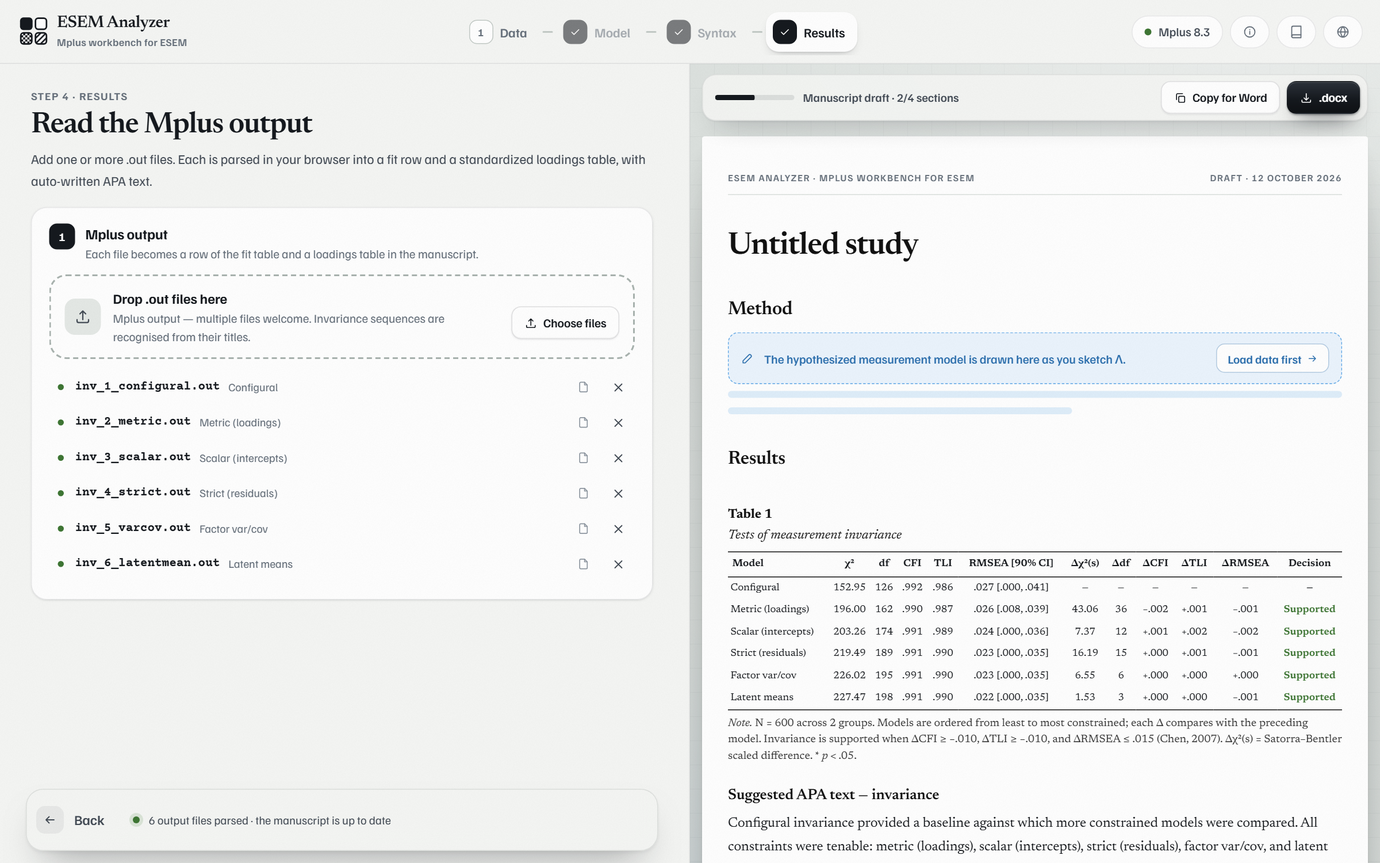
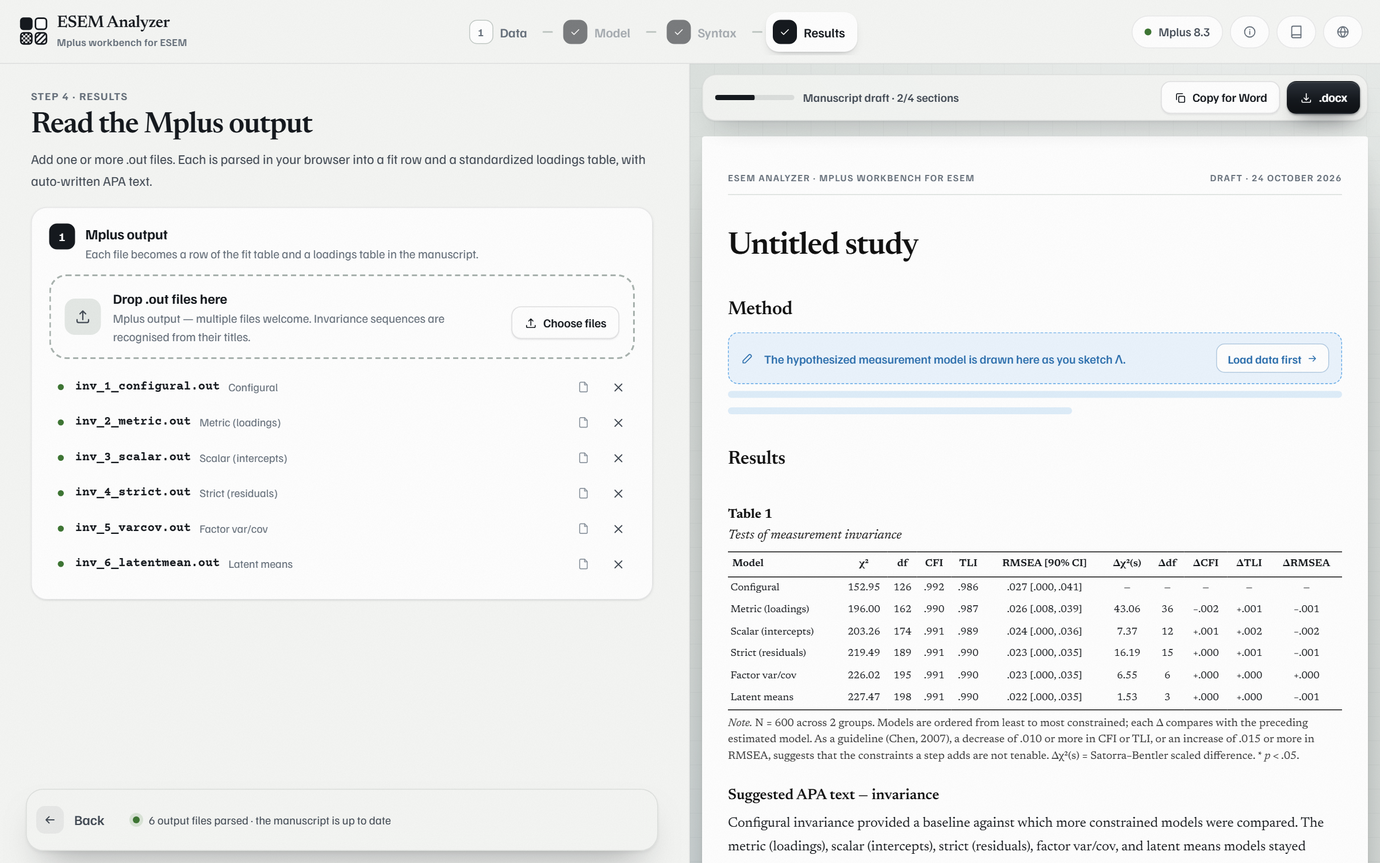
Invariance tables without a verdict column: Chen's cutoffs stay in the note as a guideline, the comparison model is named when a step was skipped, and the draft text reports the steps after an exceeded one for completeness only; fit-table note follows Morin's comparisons; scaled-difference check

Changed region(s): [[0.5312, 0.644, 0.9688, 0.8893], [0.5312, 0.9507, 0.9375, 1.0], [0.9375, 0.9507, 0.9688, 0.9813]]

diff --git a/js/apa-render.js b/js/apa-render.js
@@ -106,7 +106,7 @@ export function fitDelta(ref, cur, { nested = true, useWrmr = false } = {}) {
   };
 }
 
-export const REFERENCE_NOTE = 'Each Δ compares the model with the reference model in the vs. column — ESEM and bifactor-CFA with the CFA, bifactor-ESEM with the ESEM (Morin, 2023); Δχ²(s) is given only for nested pairs (CFA within ESEM, bifactor-CFA within bifactor-ESEM).';
+export const REFERENCE_NOTE = 'Each Δ compares the model with the reference model in the vs. column — the ESEM with the CFA, then each bifactor model with its first-order counterpart, the comparisons of Morin (2023), who makes the second one for the retained first-order model; Δχ²(s) is given only for nested pairs (CFA within ESEM, bifactor-CFA within bifactor-ESEM).';
 
 export function renderFitTable(models, { deltaMode = 'auto', caption = 'Goodness-of-fit statistics', wlsmv = null } = {}) {
   // Auto-detect WLSMV: no model reports SRMR but at least one reports WRMR.
@@ -150,19 +150,20 @@ export function deltaText(dec) {
 }
 
 // ======================= Measurement-invariance table =======================
-/** Morin's rule (Chen, 2007; Cheung & Rensvold, 2002): the step is supported when the CFI and the
- *  TLI each drop by no more than .010 and the RMSEA rises by no more than .015 — i.e.
- *  ΔCFI ≥ −.010, ΔTLI ≥ −.010, ΔRMSEA ≤ .015. The deltas are compared at the 3-decimal precision
- *  Mplus reports, so a displayed −.010 passes (raw floating-point noise such as
- *  .990 − 1.000 = −0.010000000000000009 must not fail it). ΔTLI is skipped only when a TLI is missing. */
+/** Chen's (2007) guideline, as Morin (2023) applies it: a decrease of .010 or more in CFI or TLI, or an
+ *  increase of .015 or more in RMSEA, suggests that the constraints a step adds are not tenable. The deltas
+ *  are compared at the 3-decimal precision Mplus reports (a displayed −.010 reaches the guideline; raw
+ *  floating-point noise such as .990 − 1.000 = −0.010000000000000009 must not move the result). ok = the
+ *  step stays within the guideline; it is a reading aid for the Δ columns, not a verdict — the tables carry
+ *  no decision column. ΔTLI is skipped only when a TLI is missing. */
 export function invarianceDecision(prev, cur) {
   if (!prev) return { ok: null, text: '—', dcfi: null, dtli: null, drmsea: null };
   const diff = (a, b) => (a != null && b != null ? a - b : null);
   const r3 = (x) => Math.round(x * 1000) / 1000;
   const dcfi = diff(cur.cfi, prev.cfi), dtli = diff(cur.tli, prev.tli), drmsea = diff(cur.rmsea, prev.rmsea);
   const ok = dcfi != null && drmsea != null
-    && r3(dcfi) >= -0.010 && (dtli == null || r3(dtli) >= -0.010) && r3(drmsea) <= 0.015;
-  return { ok, text: dcfi == null ? '—' : (ok ? 'Supported' : 'Not supported'), dcfi, dtli, drmsea };
+    && r3(dcfi) > -0.010 && (dtli == null || r3(dtli) > -0.010) && r3(drmsea) < 0.015;
+  return { ok, text: dcfi == null ? '—' : (ok ? 'Within guideline' : 'Beyond guideline'), dcfi, dtli, drmsea };
 }
 
 // ---- step order and estimation status (shared by the on-screen table, the prose and the Word/.docx export) ----
@@ -205,22 +206,40 @@ export function chiSquareFree(p) { return noFitReason(p) == null && p?.fit?.chi2
 export function noChiSquareSentence(label, f) {
   return `The ${label} model converged (log-likelihood = ${f2(f.logLik)}, AIC = ${f2(f.aic)}, BIC = ${f2(f.bic)}), but Mplus reports no χ²-based fit indices for it (as with MLR and categorical indicators), so CFI, TLI and RMSEA are not available.`;
 }
-/** Rows of an invariance table: sequence order, each model's nearest ESTIMATED predecessor and the decision
- *  against it. A model whose .out has no fit statistics keeps its place but is marked unestimated and skipped
- *  by the comparisons, so a failed step can neither scramble the rows nor hide the configural baseline. */
+/** Rows of an invariance table: sequence order, each model's nearest ESTIMATED predecessor and the Δ against
+ *  it. A model whose .out has no fit statistics keeps its place but is marked unestimated and skipped by the
+ *  comparisons, so a failed step can neither scramble the rows nor hide the configural baseline.
+ *  skipped = the unestimated models between a row and its comparison model (the row then carries a letter
+ *  mark, explained in the note); after = the first earlier step whose Δ went beyond the guideline (null if
+ *  none) — the rows after it are reported for completeness and do not establish their level of invariance. */
 export function invarianceSeries(models) {
   const rows = [];
-  let prev = null;
+  let prev = null, skipped = [], exceeded = null, marks = 0;
   for (const m of sortInvarianceModels(models)) {
     const f = m.parsed.fit || {};
     const reason = noFitReason(m.parsed);
     const estimated = reason == null;
     const dec = estimated ? invarianceDecision(prev ? prev.parsed.fit : null, f)
       : { ok: null, text: 'Not estimated', dcfi: null, dtli: null, drmsea: null };
-    rows.push({ m, f, estimated, reason, prev, dec });
-    if (estimated) prev = m;
+    const row = { m, f, estimated, reason, prev, dec, skipped: estimated && prev ? skipped : [], after: exceeded, mark: '' };
+    if (row.skipped.length) row.mark = String.fromCharCode(97 + marks++);
+    rows.push(row);
+    if (estimated) { prev = m; skipped = []; if (dec.ok === false && !exceeded) exceeded = m; } else skipped = [...skipped, m];
   }
   return rows;
+}
+/** Note sentences shared by the on-screen table and the Word/.docx export: how to read the Δ columns (Chen's
+ *  guideline, the rows after a step that went beyond it) and the letter marks of rows whose comparison model is
+ *  not the preceding step. html → labels escaped for innerHTML. */
+export function invarianceGuidelineNote(series, { html = false } = {}) {
+  const lbl = (m) => (html ? esc(m.label) : m.label);
+  const beyond = series.some((r) => r.estimated && r.dec.ok === false);
+  let s = 'Models are ordered from least to most constrained; each Δ compares with the preceding estimated model. As a guideline (Chen, 2007), a decrease of .010 or more in CFI or TLI, or an increase of .015 or more in RMSEA, suggests that the constraints a step adds are not tenable'
+    + (beyond ? '; the rows after such a step are reported for completeness and do not establish those levels of invariance (Morin, 2023).' : '.');
+  for (const r of series.filter((x) => x.mark)) {
+    s += ` ${html ? `<sup>${r.mark}</sup>` : r.mark} Compared with the ${lbl(r.prev)} model because the ${joinList(r.skipped.map(lbl))} model${r.skipped.length > 1 ? 's' : ''} could not be estimated, so the Δ covers the constraints of both steps.`;
+  }
+  return s;
 }
 /** Fit-table note suffix naming the models without fit statistics and the loglikelihood-only ones ('' when
  *  every model has χ²-based indices). html → labels escaped for innerHTML; plain text for the .docx path. */
@@ -245,14 +264,14 @@ export function renderInvarianceTable(models, { caption, longitudinal = false } 
   // WLSMV (categorical) sequences: the χ² values cannot be differenced or SB-scaled — the only
   // valid Δχ² is Mplus's DIFFTEST, which each step's own .out reports against the previous step.
   const wlsmv = models.some((m) => /MV$/i.test(m.parsed.estimator || '') || m.parsed.diffTest);
-  const head = ['Model', 'χ²', 'df', 'CFI', 'TLI', 'RMSEA [90% CI]', wlsmv ? 'Δχ²' : 'Δχ²(s)', 'Δdf', 'ΔCFI', 'ΔTLI', 'ΔRMSEA', 'Decision'];
+  const head = ['Model', 'χ²', 'df', 'CFI', 'TLI', 'RMSEA [90% CI]', wlsmv ? 'Δχ²' : 'Δχ²(s)', 'Δdf', 'ΔCFI', 'ΔTLI', 'ΔRMSEA'];
   const series = invarianceSeries(models);
   let rows = '';
   let missingDiff = false;
   for (const r of series) {
     const { m, f, dec } = r;
     if (!r.estimated) {
-      const cells = [m.label, ...Array(10).fill('—'), '<span style="color:var(--danger);font-weight:600">Not estimated</span>'];
+      const cells = [esc(m.label), '<span style="color:var(--danger);font-weight:600">Not estimated</span>', ...Array(9).fill('—')];
       rows += `<tr>${cells.map((c) => `<td>${c}</td>`).join('')}</tr>`;
       continue;
     }
@@ -263,17 +282,15 @@ export function renderInvarianceTable(models, { caption, longitudinal = false } 
       if (d) { dchi = f2(d.chi2) + (d.p != null && d.p < 0.05 ? '*' : ''); ddf = d.df; }
       else missingDiff = true;
     } else if (prev) { const mc = (prev.df ?? 0) >= (f.df ?? 0) ? prev : f; const mu = mc === prev ? f : prev; const sb = sbChiSqDiff(mc, mu); if (sb) { dchi = f2(sb.TRd) + (sb.p < 0.05 ? '*' : ''); ddf = sb.df; } }
-    const colour = dec.ok === true ? 'color:var(--good)' : dec.ok === false ? 'color:var(--danger)' : '';
-    const cells = [m.label, f2(f.chi2), f.df ?? '—', f3(f.cfi), f3(f.tli), `${f3(f.rmsea)} ${ci(f.rmseaLo, f.rmseaHi)}`,
-      dchi, ddf, dec.dcfi != null ? signed(dec.dcfi, 3) : '—', dec.dtli != null ? signed(dec.dtli, 3) : '—', dec.drmsea != null ? signed(dec.drmsea, 3) : '—',
-      `<span style="${colour};font-weight:600">${dec.text}</span>`];
+    const cells = [esc(m.label) + (r.mark ? `<sup>${r.mark}</sup>` : ''), f2(f.chi2), f.df ?? '—', f3(f.cfi), f3(f.tli), `${f3(f.rmsea)} ${ci(f.rmseaLo, f.rmseaHi)}`,
+      dchi, ddf, dec.dcfi != null ? signed(dec.dcfi, 3) : '—', dec.dtli != null ? signed(dec.dtli, 3) : '—', dec.drmsea != null ? signed(dec.drmsea, 3) : '—'];
     rows += `<tr>${cells.map((c) => `<td>${c}</td>`).join('')}</tr>`;
   }
   const across = longitudinal ? 'across two time points' : `across ${models[0]?.parsed.nGroups ?? 2} groups`;
   const dchiNote = wlsmv
     ? `Δχ² = WLSMV difference test (Mplus DIFFTEST) against the preceding model; WLSMV χ² values cannot be differenced directly.${missingDiff ? ' Missing Δχ² values: run the generated models in order, in one folder, so each step finds the previous step’s DIFFTEST file.' : ''}`
     : 'Δχ²(s) = Satorra–Bentler scaled difference.';
-  const note = `<p class="apa-note"><i>Note.</i> N = ${models[0]?.parsed.nObs ?? '—'} ${across}. Models are ordered from least to most constrained; each Δ compares with the preceding model. Invariance is supported when ΔCFI ≥ −.010, ΔTLI ≥ −.010, and ΔRMSEA ≤ .015 (Chen, 2007). ${dchiNote}${unestimatedNote(series, { html: true })} * <i>p</i> &lt; .05.</p>`;
+  const note = `<p class="apa-note"><i>Note.</i> N = ${models[0]?.parsed.nObs ?? '—'} ${across}. ${invarianceGuidelineNote(series, { html: true })} ${dchiNote}${unestimatedNote(series, { html: true })} * <i>p</i> &lt; .05.</p>`;
   return `<table class="apa-table"><caption><b>Table.</b> ${caption}</caption><thead><tr>${head.map((h) => `<th>${h}</th>`).join('')}</tr></thead><tbody>${rows}</tbody></table>${note}`;
 }
 
@@ -283,25 +300,28 @@ export function invarianceProseText(models, { longitudinal = false } = {}) {
   const est = series.filter((r) => r.estimated);
   const skipped = series.filter((r) => !r.estimated);
   const over = longitudinal ? 'across the two time points' : 'across groups';
+  const lower = (r) => r.m.label.toLowerCase();
   const skippedSentence = skipped.length
-    ? ` The ${joinList(skipped.map((r) => r.m.label.toLowerCase()))} model${skipped.length > 1 ? 's' : ''} could not be estimated (${joinList([...new Set(skipped.map((r) => r.reason))])}) and ${skipped.length > 1 ? 'were' : 'was'} left out of the comparisons.`
+    ? ` The ${joinList(skipped.map(lower))} model${skipped.length > 1 ? 's' : ''} could not be estimated (${joinList([...new Set(skipped.map((r) => r.reason))])}) and ${skipped.length > 1 ? 'were' : 'was'} left out of the comparisons.`
     : '';
   if (est.length < 2) return skippedSentence.trim();
-  const supported = [], failedAt = [];
-  est.forEach((r, i) => { if (i === 0) { supported.push(r.m.label); return; } if (r.dec.ok) supported.push(r.m.label); else failedAt.push(r); });
+  // the comparison model, named when it is not the preceding step
+  const against = (r) => (r.skipped.length ? `, against the ${r.prev.label.toLowerCase()} model because the ${joinList(r.skipped.map((x) => x.label.toLowerCase()))} model${r.skipped.length > 1 ? 's' : ''} could not be estimated` : '');
+  const beyond = est.findIndex((r, i) => i > 0 && r.dec.ok === false);
+  const within = est.slice(1, beyond < 0 ? est.length : beyond);
   let s = `${est[0].m.label} invariance provided a baseline against which more constrained models were compared. `;
-  if (!failedAt.length) {
-    const held = joinList(supported.slice(1).map((x) => x.toLowerCase()));
-    s += `All constraints were tenable: ${held} invariance ${supported.length > 2 ? 'were each' : 'was'} supported (ΔCFI ≥ −.010, ΔTLI ≥ −.010, ΔRMSEA ≤ .015), indicating full measurement invariance ${over}.`;
-  } else {
-    const first = failedAt[0];
-    const held = supported.slice(1).map((x) => x.toLowerCase());
-    s += held.length ? `${joinList(held)} invariance ${held.length > 1 ? 'were' : 'was'} supported, but ` : '';
-    s += `${first.m.label.toLowerCase()} invariance was not supported (${deltaText(first.dec)}), indicating non-invariance at this level. Partial-invariance follow-ups (freeing the most divergent parameters via modification indices) are recommended before comparing ${longitudinal ? 'time points' : 'groups'} further.`;
+  if (within.length) {
+    const held = joinList(within.map(lower));
+    s += `The ${held} model${within.length > 1 ? 's' : ''} stayed within Chen’s (2007) guideline of a decrease of less than .010 in CFI and TLI and an increase of less than .015 in RMSEA (${within.map((r) => `${lower(r)}: ${deltaText(r.dec)}${against(r)}`).join('; ')}), which is consistent with ${beyond < 0 ? 'full measurement invariance' : `${held} invariance`} ${over}.`;
+  }
+  if (beyond >= 0) {
+    const r = est[beyond];
+    s += `${within.length ? ' ' : ''}The ${lower(r)} model went beyond that guideline (${deltaText(r.dec)}${against(r)}), so ${lower(r)} invariance should not be accepted as it stands; a partial-invariance model that frees the parameters with the largest modification indices should be examined before the sequence continues (Morin, 2023).`;
+    const rest = est.slice(beyond + 1);
+    if (rest.length) s += ` The ${joinList(rest.map(lower))} model${rest.length > 1 ? 's' : ''} of the full sequence ${rest.length > 1 ? 'are' : 'is'} reported in the table for completeness: each was compared with the model before it and does not establish that level of invariance.`;
   }
   return s + skippedSentence;
 }
-
 export function renderInvarianceProse(models, opts = {}) {
   const s = invarianceProseText(models, opts);
   return s ? `<p class="apa-prose">${s}</p>` : '';

diff --git a/js/docx-export.js b/js/docx-export.js
@@ -3,7 +3,7 @@
 //   exportDocx(models)         → a real .docx via the `docx` UMD global
 //   zipInputs(files)           → bundle generated .inp files via the `JSZip` UMD global
 import { apaNum, apaP, toast, downloadBlob } from './ui.js';
-import { sbChiSqDiff, buildLoadingsModel, invarianceSeries, sortInvarianceModels, invarianceProseText, unestimatedNote, noFitReason, unestimatedFitNote, noChiSquareSentence, fitComparisons, fitDelta, REFERENCE_NOTE } from './apa-render.js';
+import { sbChiSqDiff, buildLoadingsModel, invarianceSeries, invarianceGuidelineNote, sortInvarianceModels, invarianceProseText, unestimatedNote, noFitReason, unestimatedFitNote, noChiSquareSentence, fitComparisons, fitDelta, REFERENCE_NOTE } from './apa-render.js';
 
 // Sequences are ordered by invariance step (configural → … → latent means), never by df: an output without
 // fit statistics has no df and used to be sorted to the top of its table.
@@ -27,16 +27,18 @@ const chainSets = (g, longitudinal) => (longitudinal
   : [[g.multiCfa, 'CFA'], [g.multi, 'first-order ESEM'], [g.multiBcfa, 'bifactor-CFA'], [g.multiBesem, 'bifactor-ESEM']]).filter(([set]) => set.length);
 // Multi-group note string for the invariance table (Word + .docx).
 function mgNote(models) {
-  return `N = ${models[0]?.parsed.nObs ?? '—'} across ${models[0]?.parsed.nGroups ?? 2} groups. Invariance supported when ΔCFI ≥ −.010, ΔTLI ≥ −.010, and ΔRMSEA ≤ .015 (Chen, 2007).${unestimatedNote(invarianceSeries(models))}`;
+  const series = invarianceSeries(models);
+  return `N = ${models[0]?.parsed.nObs ?? '—'} across ${models[0]?.parsed.nGroups ?? 2} groups. ${invarianceGuidelineNote(series)}${unestimatedNote(series)}`;
 }
 
 function invRows(models) {
-  const head = ['Model', 'χ²', 'df', 'CFI', 'TLI', 'RMSEA [90% CI]', 'ΔCFI', 'ΔTLI', 'ΔRMSEA', 'Decision'];
-  // same rows as the on-screen table: sequence order, unestimated outputs marked and skipped by the comparisons
-  const body = invarianceSeries(models).map(({ m, f, dec, estimated }) => (estimated
-    ? [m.label, f2(f.chi2), f.df ?? '—', f3(f.cfi), f3(f.tli), `${f3(f.rmsea)} ${ci(f.rmseaLo, f.rmseaHi)}`,
-      dec.dcfi != null ? signed(dec.dcfi) : '—', dec.dtli != null ? signed(dec.dtli) : '—', dec.drmsea != null ? signed(dec.drmsea) : '—', dec.text]
-    : [m.label, ...Array(8).fill('—'), 'Not estimated']));
+  const head = ['Model', 'χ²', 'df', 'CFI', 'TLI', 'RMSEA [90% CI]', 'ΔCFI', 'ΔTLI', 'ΔRMSEA'];
+  // same rows as the on-screen table: sequence order, unestimated outputs marked and skipped by the comparisons,
+  // a letter mark on a row whose comparison model is not the preceding step (explained in the note)
+  const body = invarianceSeries(models).map(({ m, f, dec, estimated, mark }) => (estimated
+    ? [m.label + (mark ? ` ${mark}` : ''), f2(f.chi2), f.df ?? '—', f3(f.cfi), f3(f.tli), `${f3(f.rmsea)} ${ci(f.rmseaLo, f.rmseaHi)}`,
+      dec.dcfi != null ? signed(dec.dcfi) : '—', dec.dtli != null ? signed(dec.dtli) : '—', dec.drmsea != null ? signed(dec.drmsea) : '—']
+    : [m.label, 'Not estimated', ...Array(7).fill('—')]));
   return { head, body };
 }
 function invProseText(models, opts = {}) {
@@ -45,7 +47,8 @@ function invProseText(models, opts = {}) {
 }
 // Longitudinal note string for the invariance table (Word + .docx).
 function longiNote(models, modelLabel) {
-  return `N = ${models[0]?.parsed.nObs ?? '—'} across two time points${modelLabel ? ` (${modelLabel})` : ''}. Invariance supported when ΔCFI ≥ −.010, ΔTLI ≥ −.010, and ΔRMSEA ≤ .015 (Chen, 2007).${unestimatedNote(invarianceSeries(models))}`;
+  const series = invarianceSeries(models);
+  return `N = ${models[0]?.parsed.nObs ?? '—'} across two time points${modelLabel ? ` (${modelLabel})` : ''}. ${invarianceGuidelineNote(series)}${unestimatedNote(series)}`;
 }
 
 const f2 = (x) => apaNum(x, 2, false);

diff --git a/demo.html b/demo.html
@@ -145,14 +145,14 @@
           <div class="row"><a class="btn btn-sm" href="index.html?demo=bifactor">Open the bifactor-ESEM result</a></div>
 
           <h3 class="step"><span class="num-badge" aria-hidden="true">6</span>Invariance across groups</h3>
-          <p class="body">The six <span class="mono">inv_*.out</span> files (men vs women) collapse into one comparison table: configural → metric → scalar → strict → variance–covariance → latent means, with Satorra–Bentler scaled Δχ², ΔCFI, ΔRMSEA and a supported / not supported verdict (Chen, 2007).</p>
-          <figure class="shot"><img width="2400" height="1500" src="docs/img/07-invariance.png?v=9" alt="Measurement invariance comparison table in the manuscript" loading="lazy" /></figure>
+          <p class="body">The six <span class="mono">inv_*.out</span> files (men vs women) collapse into one comparison table: configural → metric → scalar → strict → variance–covariance → latent means, with Satorra–Bentler scaled Δχ², ΔCFI, ΔRMSEA and, in the note, Chen’s (2007) guideline for reading them — no verdict column.</p>
+          <figure class="shot"><img width="2400" height="1500" src="docs/img/07-invariance.png?v=10" alt="Measurement invariance comparison table in the manuscript" loading="lazy" /></figure>
           <p class="tcap fig"><b></b></p><p class="tcap"><i>Tests of measurement invariance across two groups.</i></p>
           <div class="row"><a class="btn btn-sm" href="index.html?demo=invariance">Open the invariance sequence</a></div>
 
           <h3 class="step"><span class="num-badge" aria-hidden="true">7</span>Invariance across time</h3>
           <p class="body">The same six steps also run <b>longitudinally</b>: one single-group model per step, each wave as its own ESEM set, loadings equated across waves, every indicator's residual correlated with itself over time. Sequences are generated for CFA, ESEM and <b>bifactor-ESEM</b>. This demo drops twelve outputs from a 2-wave well-being example: invariance holds through variance–covariance, and the latent-means step flags the built-in growth, which the bifactor sequence places on the general factor only.</p>
-          <figure class="shot"><img width="2400" height="1500" src="docs/img/08-longitudinal.png?v=9" alt="Longitudinal invariance comparison tables for ESEM and bifactor-ESEM" loading="lazy" /></figure>
+          <figure class="shot"><img width="2400" height="1500" src="docs/img/08-longitudinal.png?v=10" alt="Longitudinal invariance comparison tables for ESEM and bifactor-ESEM" loading="lazy" /></figure>
           <p class="tcap fig"><b></b></p><p class="tcap"><i>Longitudinal invariance tables for the ESEM and bifactor-ESEM sequences.</i></p>
           <div class="row"><a class="btn btn-sm" href="index.html?demo=longitudinal">Open the longitudinal sequences</a></div>
 

diff --git a/README.md b/README.md
@@ -37,7 +37,7 @@ links to it on localhost and remembers the choice. A first-visit **Guide** expla
 - **CFA** (independent-clusters, standardized-factor identification `F1 BY x1* …; F1@1;`)
 - **ESEM** — Geomin (oblique/orthogonal, ε) and Target rotation
 - **Bifactor-CFA** and **Bifactor-ESEM** (BI-GEOMIN orthogonal / orthogonal Target)
-- **Measurement invariance** — across **groups** (multi-group) or across **time** (within-person, 2-wave longitudinal), for every checked measurement model — **CFA, ESEM, bifactor-CFA and bifactor-ESEM** each get their own sequence and their own results table: configural → metric → scalar → strict → variance–covariance → latent means (Satorra–Bentler scaled Δχ² for MLR; Chen 2007 ΔCFI/ΔTLI/ΔRMSEA verdicts). Longitudinal models equate loadings across waves and correlate each indicator's residual over time (target rotation is written per wave with its `~0` blocks; the checked measurement models are also estimated on the Time-1 indicators first, as in Morin's Table 1); the bifactor sequences follow Morin's Hoyle-Handbook chapter (orthogonal target rotation, general + specific factors). Group labels are made Mplus-legal (letters, digits, underscores, 8 characters) before they reach the `GROUPING` line.
+- **Measurement invariance** — across **groups** (multi-group) or across **time** (within-person, 2-wave longitudinal), for every checked measurement model — **CFA, ESEM, bifactor-CFA and bifactor-ESEM** each get their own sequence and their own results table: configural → metric → scalar → strict → variance–covariance → latent means (Satorra–Bentler scaled Δχ² for MLR; ΔCFI/ΔTLI/ΔRMSEA read against Chen's 2007 guideline in the table note — no verdict column). Longitudinal models equate loadings across waves and correlate each indicator's residual over time (target rotation is written per wave with its `~0` blocks; the checked measurement models are also estimated on the Time-1 indicators first, as in Morin's Table 1); the bifactor sequences follow Morin's Hoyle-Handbook chapter (orthogonal target rotation, general + specific factors). Group labels are made Mplus-legal (letters, digits, underscores, 8 characters) before they reach the `GROUPING` line.
 - **Categorical (ordinal) invariance** — flag every item categorical and the multi-group sequence switches to the thresholds-based **WLSMV + THETA** chain (Millsap identification: first thresholds + one referent's second threshold equated from configural on) and wires the **`DIFFTEST`** handshake between steps automatically; the Results table then reports Mplus's difference-test Δχ² instead of a (invalid) Satorra–Bentler value. The **bifactor-ESEM** sequence gets the same thresholds chain — with one extra referent threshold for the G factor (Morin's T15/T42 rule) and its own `BifactorInv_diff_*.dat` files. Across time the same thresholds chain runs for all four models (thresholds equated across waves through shared labels, Time-1 uniquenesses fixed at 1, `LongInv_<model>_diff_*.dat` DIFFTEST files). **Mixed indicators** (some items ordinal, some continuous) get thresholds for the ordinal items and intercepts for the continuous ones under WLSMV/THETA in the CFA, ESEM and bifactor-CFA sequences. A response category that is empty in one group or at one wave stops WLSMV; the Model step lists such **sparse categories** per group/wave and merges them into a neighbour on request (a `DEFINE: IF (item EQ k) THEN item = j;` line in every input).
 - **ESEM-within-CFA** — convert a rotated ESEM solution into an equivalent CFA you can embed in larger SEM/MIMIC/DIF models (Morin's referent method)
 - **Convergence aids** (optional, on the Syntax step) — the two remedies Morin uses in the Hoyle-Handbook chapter: a loosened `CONVERGENCE` criterion (emitted for every model, invariance sequences included) and per-item residual-variance positivity constraints (`item (res#); … MODEL CONSTRAINT: res# > 0;`, single-group measurement models only) for Heywood cases. With a missing-value code and an ML-family estimator the loosened criterion also brings a matching `H1CONVERGENCE` line, plus `H1ITERATIONS` wherever an `ITERATIONS` line is set (Morin's T32 note). Every model requests Morin's recommended `OUTPUT: SAMPSTAT STANDARDIZED MODINDICES CINTERVAL RESIDUAL SVALUES TECH1 TECH3 TECH4;`
@@ -119,13 +119,13 @@ node test/specstore.test.mjs    # model specification save / restore (.json, loc
 node test/collapse.test.mjs     # sparse response categories: detection per group/wave, DEFINE merges, Mplus error (19)
 node test/ewc.test.mjs          # ESEM-within-CFA         (52)
 node test/longitudinal.test.mjs # longitudinal invariance (104)
-node test/apa.test.mjs          # Morin-style APA tables + the four-model fit table (25)
+node test/apa.test.mjs          # Morin-style APA tables + the four-model fit table + Satorra–Bentler scaled Δχ² (27)
 node test/docx.test.mjs         # Word/.docx export        (15)
 node test/aids.test.mjs         # convergence aids         (36)
 node test/runscripts.test.mjs   # auto-mode run scripts    (18)
 node test/mginv.test.mjs        # MG bifactor-ESEM invariance + Mplus-legal group labels (63)
 node test/catinv.test.mjs       # categorical WLSMV invariance + DIFFTEST, ESEM + bifactor-ESEM chains (128)
-node test/invorder.test.mjs     # invariance step order, unestimated outputs (MG + longitudinal), total-sample models, ID columns, Time-2 pairing incl. an 18 000-file name sweep, Mplus input errors (141)
+node test/invorder.test.mjs     # invariance step order, unestimated outputs (MG + longitudinal), total-sample models, ID columns, Time-2 pairing incl. an 18 000-file name sweep, Mplus input errors, invariance tables without a verdict column (142)
 ```
 
 The two multi-group invariance engines were additionally **cross-validated against De Beer & Morin's

diff --git a/GUIDE.md b/GUIDE.md
@@ -84,7 +84,10 @@ Drop one or many `.out` files. Each is parsed in the browser into a fit row, a s
 (target loadings bold, δ uniqueness, McDonald's ω, factor correlations), auto-written APA prose, and a path
 diagram. Multiple invariance models become a single comparison table with Δχ² (Satorra–Bentler scaled for
 MLR; for WLSMV sequences the column shows Mplus's `DIFFTEST` difference test instead, read from each
-step's own `.out`), ΔCFI, ΔTLI, and ΔRMSEA, and a "supported / not supported" verdict (Chen, 2007). When both
+step's own `.out`), ΔCFI, ΔTLI, and ΔRMSEA; the note gives Chen's (2007) guideline for reading them (a decrease
+of .010 or more in CFI or TLI, or an increase of .015 or more in RMSEA, suggests the added constraints are not
+tenable), names the comparison model of a row whose preceding step was not estimated, and says that the rows
+after a step that went beyond the guideline are reported for completeness only. There is no verdict column. When both
 the ESEM and bifactor-ESEM multi-group sequences are present, they render as two separate tables. Export
 with **Copy for Word** or **Download .docx**.
 
@@ -96,10 +99,10 @@ puts the specific factors on one side and the global factor on the other, reachi
 
 ![Bifactor diagram](docs/img/06-bifactor-diagram.png?v=5)
 
-The six invariance models (men vs women) collapse into one comparison table with the Δ statistics and a
-per-step verdict:
+The six invariance models (men vs women) collapse into one comparison table with the Δ statistics, read
+against Chen's guideline in the note:
 
-![Measurement invariance comparison table](docs/img/07-invariance.png?v=5)
+![Measurement invariance comparison table](docs/img/07-invariance.png?v=6)
 
 ## 5 · ESEM-within-CFA
 
